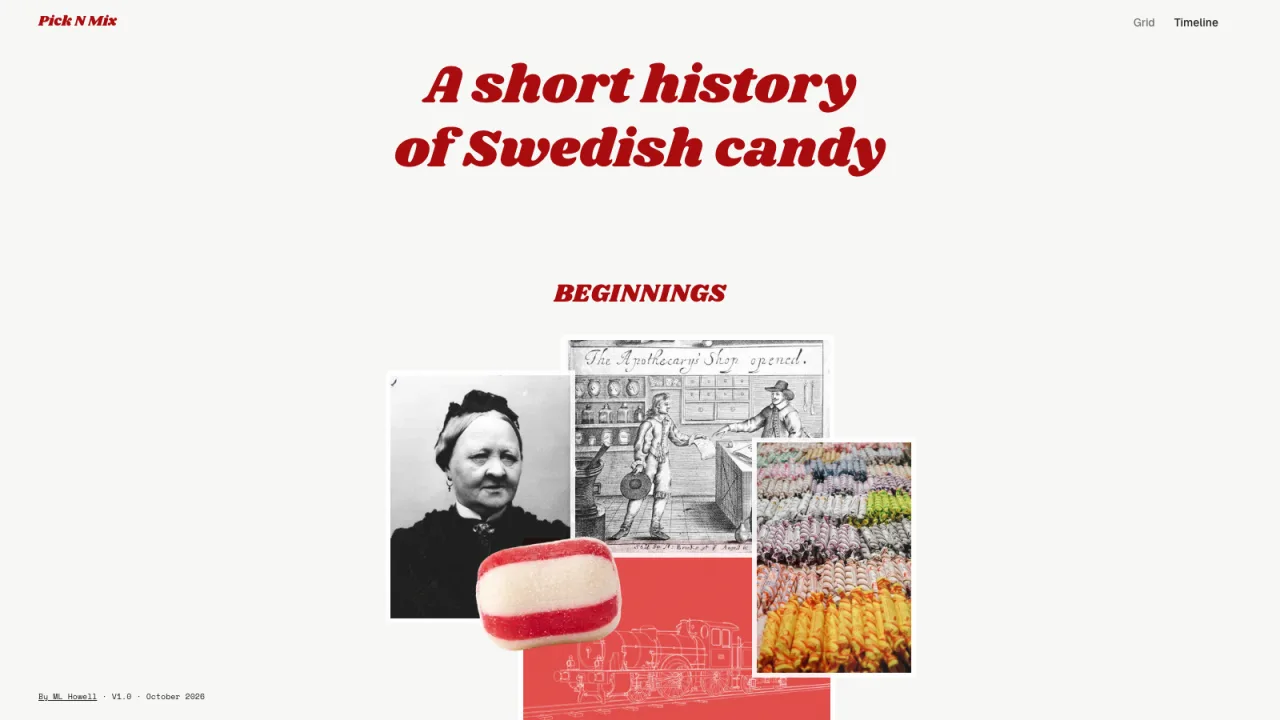
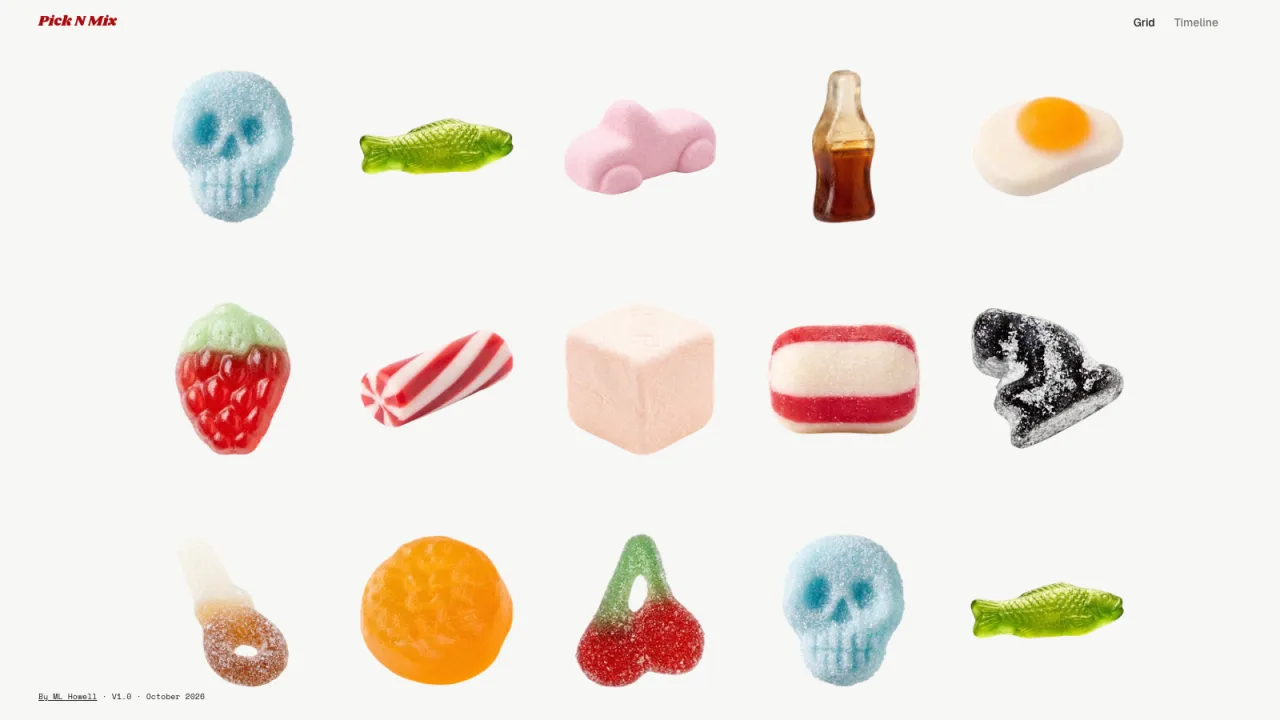
Pick N Mix: default to grid view in thumbnail and embed

diff --git a/projects/pick-n-mix/index.html b/projects/pick-n-mix/index.html
@@ -23,19 +23,19 @@
     </header>
 
     <div class="embed-main">
-      <div class="embed-bar" data-url="https://picknmix.mary-louise.com/?view=timeline">
+      <div class="embed-bar" data-url="https://picknmix.mary-louise.com/">
         <div class="embed-url">
           <span class="embed-url-text">picknmix.mary-louise.com</span>
           <button class="embed-action embed-copy" type="button" aria-label="Copy link">
             <i data-lucide="copy"></i>
           </button>
         </div>
-        <a class="embed-action" href="https://picknmix.mary-louise.com/?view=timeline" target="_blank" rel="noopener" aria-label="Open in new tab">
+        <a class="embed-action" href="https://picknmix.mary-louise.com/" target="_blank" rel="noopener" aria-label="Open in new tab">
           <i data-lucide="external-link"></i>
         </a>
       </div>
 
-      <iframe class="embed-frame" src="https://picknmix.mary-louise.com/?view=timeline" title="Pick N Mix — a short history of Swedish candy"></iframe>
+      <iframe class="embed-frame" src="https://picknmix.mary-louise.com/" title="Pick N Mix — a short history of Swedish candy"></iframe>
     </div>
   </div>
 

diff --git a/experiments/index.html b/experiments/index.html
@@ -361,7 +361,7 @@
 
       <a class="experiment-item" href="/projects/pick-n-mix/" aria-label="View Pick N Mix" style="text-decoration:none;color:inherit;">
         <div class="experiment-thumb has-edge">
-          <img src="images/pick-n-mix.webp" alt="Pick N Mix timeline: A short history of Swedish candy">
+          <img src="images/pick-n-mix.webp?v=2" alt="Pick N Mix grid of Swedish candies">
         </div>
         <div class="experiment-meta">
           <div class="experiment-title">Pick N Mix / 2026</div>
